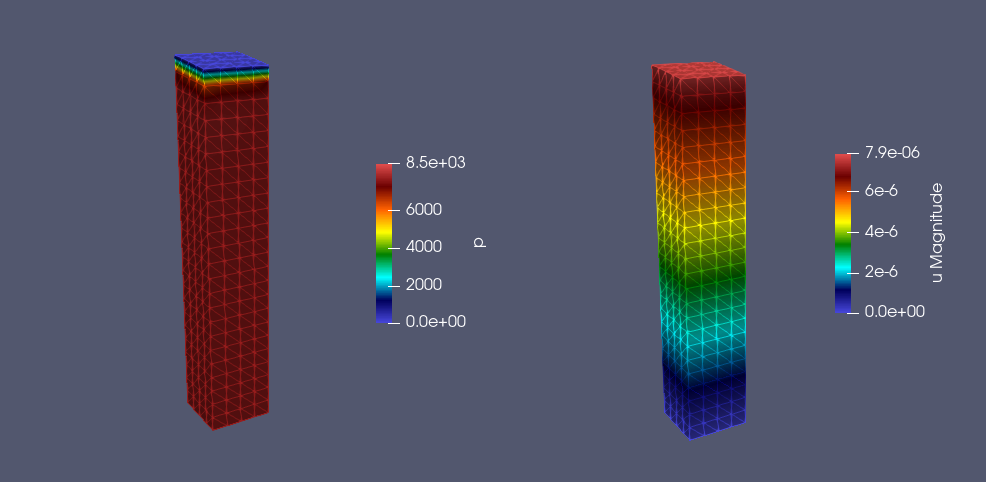
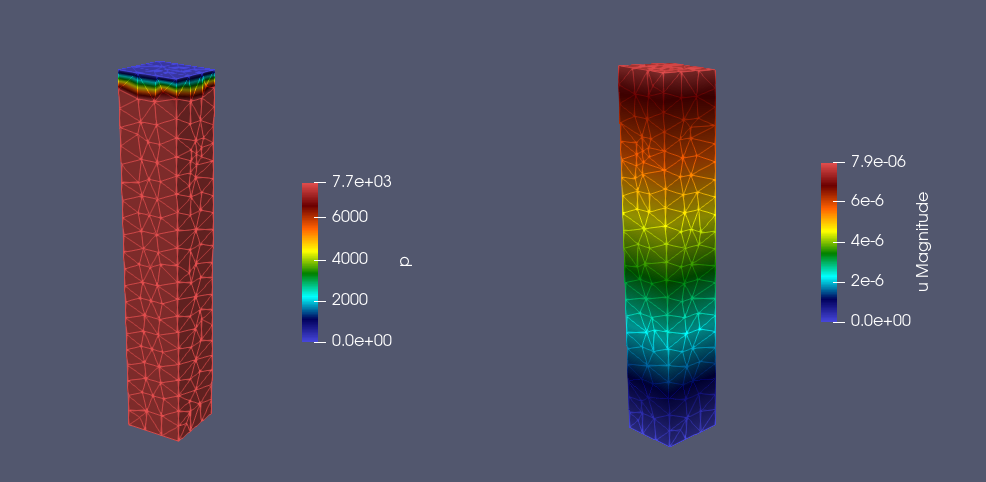
Removed unused imported libs. Changed Terzaghi to unstructured grid. Renamed a few functions.

diff --git a/libs/grids.py b/libs/grids.py
@@ -1,9 +1,9 @@
-from dolfin import near, Point, SubDomain, Mesh, MeshFunction, Measure, RectangleMesh, BoxMesh
-from mshr import Sphere, Box, generate_mesh
+from dolfin import SubDomain, near, Point, MeshFunction, Measure
+from mshr import generate_mesh, Box, Sphere
 
 
 class BoxGrid(object):
-	def __init__(self, x0, x1, y0, y1, z0, z1, nx, ny, nz):
+	def __init__(self, x0, x1, y0, y1, z0, z1, n):
 		class Left(SubDomain):
 			def inside(self, x, on_boundary):
 				return near(x[0], x0)
@@ -22,7 +22,8 @@ class BoxGrid(object):
 		class Top(SubDomain):
 			def inside(self, x, on_boundary):
 				return near(x[2], z1)
-		self.mesh = BoxMesh(Point(x0, y0, z0), Point(x1, y1, z1), nx, ny, nz)
+		self.geometry = Box(Point(x0, y0, z0), Point(x1, y1, z1))
+		self.mesh = generate_mesh(self.geometry, n)
 		self.domains = MeshFunction("size_t", self.mesh, self.mesh.topology().dim())
 		self.domains.set_all(0)
 		self.dx = Measure('dx', domain=self.mesh, subdomain_data=self.domains)
@@ -43,19 +44,9 @@ class BoxGrid(object):
 		self.ds = Measure('ds', domain=self.mesh, subdomain_data=self.boundaries)
 		self.dS = Measure('dS', domain=self.mesh, subdomain_data=self.boundaries)
 
-	def addStripfootBoundary(self, z1, stripSize):
-		class Strip(SubDomain):
-			def inside(self, x, on_boundary):
-				return near(x[2], z1) and x[0] < stripSize + 1e-12 and x[1] < stripSize + 1e-12
-		self.strip = Strip()
-		self.strip.mark(self.boundaries, 7)
-		self.dx = Measure('dx', domain=self.mesh, subdomain_data=self.domains)
-		self.ds = Measure('ds', domain=self.mesh, subdomain_data=self.boundaries)
-		self.dS = Measure('dS', domain=self.mesh, subdomain_data=self.boundaries)
-
 class QuarterSphereGrid(object):
 	def __init__(self, x0, y0, z0, R, n):
-		class Boundary(SubDomain):
+		class SphereSurface(SubDomain):
 			def inside(self, x, on_boundary):
 				return on_boundary
 		class X_Symmetric(SubDomain):
@@ -67,14 +58,15 @@ class QuarterSphereGrid(object):
 		class Z_Symmetric(SubDomain):
 			def inside(self, x, on_boundary):
 				return near(x[2], z0)
-		self.mesh = generate_mesh(Sphere(Point(x0, y0, z0), R) - Box(Point(x0 + R, y0, z0 - R), Point(x0 - R, y0 - R, z0 + R)) - Box(Point(x0 - R, y0 + R, z0), Point(x0 + R, y0, z0 - R)) - Box(Point(x0, y0, z0), Point(x0 - R, y0 + R, z0 + R)), n)
+		self.geometry = Sphere(Point(x0, y0, z0), R) - Box(Point(x0 + R, y0, z0 - R), Point(x0 - R, y0 - R, z0 + R)) - Box(Point(x0 - R, y0 + R, z0), Point(x0 + R, y0, z0 - R)) - Box(Point(x0, y0, z0), Point(x0 - R, y0 + R, z0 + R))
+		self.mesh = generate_mesh(self.geometry, n)
 		self.domains = MeshFunction("size_t", self.mesh, self.mesh.topology().dim())
 		self.domains.set_all(0)
 		self.dx = Measure('dx', domain=self.mesh, subdomain_data=self.domains)
 		self.boundaries = MeshFunction("size_t", self.mesh, self.mesh.topology().dim()-1)
 		self.boundaries.set_all(0)
-		self.boundary = Boundary()
-		self.boundary.mark(self.boundaries, 1)
+		self.sphereSurface = SphereSurface()
+		self.sphereSurface.mark(self.boundaries, 1)
 		self.x_symmetric = X_Symmetric()
 		self.x_symmetric.mark(self.boundaries, 2)
 		self.y_symmetric = Y_Symmetric()

diff --git a/apps/Terzaghi3D/main.py b/apps/Terzaghi3D/main.py
@@ -1,8 +1,7 @@
 import sys
 sys.path.insert(0, '../..')
 
-from dolfin import split, plot, interpolate, Constant, assign
-import matplotlib.pyplot as plt
+from dolfin import interpolate, Expression, Constant, assign
 
 from libs.grids import *
 from libs.spaces import *
@@ -23,9 +22,7 @@ y1 = 0.5
 z0 = 0.0
 z1 = 6.0
 # Refinement
-Nx = 4
-Ny = 4
-Nz = 24
+N = 20
 # Elements degree
 pu = 1
 pp = 1
@@ -34,7 +31,7 @@ dt = 1e5
 T = 5e7
 # Load
 loadMagnitude = -10.0e3 # in Pa
-load = Constant((0.0, 0.0, loadMagnitude))
+load = Expression(("0.0", "0.0", "load"), load=loadMagnitude, degree=pu)
 # Porous medium
 medium = "GulfMexicoShale"
 # Input origin
@@ -48,9 +45,9 @@ settingsFile = "settings"
 """ START """
 
 # Generate grid
-grid = BoxGrid(x0, x1, y0, y1, z0, z1, Nx, Ny, Nz)
+grid = BoxGrid(x0, x1, y0, y1, z0, z1, N)
 # Generate mixed spaces and trial and test functions
-space = DisplacementPressureSpace(grid, pu, pp)
+space = CGvCGqSpace(grid, pu, pp)
 (u, p) = space.trialFunction()
 (w, q) = space.testFunction()
 # Assign IC
@@ -158,6 +155,6 @@ while t <= T:
 	p0.assign(p_h)
 writer.close()
 # Save simulation data
-data = {"Parameters": {"Load": {"Value": loadMagnitude, "Unit": "Pa"}, "Dimensions": {"Length": {"Axis": "x", "Value": x1 - x0, "Unit": "m"}, "Width": {"Axis": "y", "Value": y1 - y0, "Unit": "m"}, "Height": {"Axis": "z", "Value": z1 - z0, "Unit": "m"}}}, "Simulation": {"Timestep Size": {"Value": dt, "Unit": "s"}, "Total Simulation Time": {"Value": T, "Unit": "s"}, "Refinement": {"Characteristic Length": {"Value": ((x1 - x0)/Nx*(y1 - y0)/Ny*(z1 - z0)/Nz)**(1/3), "Unit": "m"}, "Displacement Elements Degree": pu, "Pressure Elements Degree": pp}}}
+data = {"Parameters": {"Load": {"Value": loadMagnitude, "Unit": "Pa"}, "Dimensions": {"Length": {"Axis": "x", "Value": x1 - x0, "Unit": "m"}, "Width": {"Axis": "y", "Value": y1 - y0, "Unit": "m"}, "Height": {"Axis": "z", "Value": z1 - z0, "Unit": "m"}}}, "Simulation": {"Timestep Size": {"Value": dt, "Unit": "s"}, "Total Simulation Time": {"Value": T, "Unit": "s"}, "Refinement": {"Resolution": N, "Displacement Elements Degree": pu, "Pressure Elements Degree": pp}}}
 saveJsonData(data, resultsFolder, settingsFile)
 copyProperties(propertiesFolder, propertiesFile, resultsFolder, [medium])

diff --git a/apps/Cryer3D/main.py b/apps/Cryer3D/main.py
@@ -1,8 +1,7 @@
 import sys
 sys.path.insert(0, '../..')
 
-from dolfin import split, plot, interpolate, Expression, Constant, assign
-import matplotlib.pyplot as plt
+from dolfin import interpolate, Expression, Constant, assign
 
 from libs.grids import *
 from libs.spaces import *
@@ -46,7 +45,7 @@ settingsFile = "settings"
 # Generate grid
 grid = QuarterSphereGrid(x0, y0, z0, R, N)
 # Generate mixed spaces and trial and test functions
-space = DisplacementPressureSpace(grid, pu, pp)
+space = CGvCGqSpace(grid, pu, pp)
 (u, p) = space.trialFunction()
 (w, q) = space.testFunction()
 # Assign IC
@@ -150,6 +149,6 @@ while t <= T:
 	p0.assign(p_h)
 writer.close()
 # Save simulation data
-data = {"Parameters": {"Load": {"Value": loadMagnitude, "Unit": "Pa"}, "Radius": {"Value": R, "Unit": "m"}}, "Simulation": {"Timestep Size": {"Value": dt, "Unit": "s"}, "Total Simulation Time": {"Value": T, "Unit": "s"}, "Refinement": {"Characteristic Length": {"Value": R/N, "Unit": "m"}, "Displacement Elements Degree": pu, "Pressure Elements Degree": pp}}}
+data = {"Parameters": {"Load": {"Value": loadMagnitude, "Unit": "Pa"}, "Radius": {"Value": R, "Unit": "m"}}, "Simulation": {"Timestep Size": {"Value": dt, "Unit": "s"}, "Total Simulation Time": {"Value": T, "Unit": "s"}, "Refinement": {"Resolution": N, "Displacement Elements Degree": pu, "Pressure Elements Degree": pp}}}
 saveJsonData(data, resultsFolder, settingsFile)
 copyProperties(propertiesFolder, propertiesFile, resultsFolder, [medium])

diff --git a/libs/spaces.py b/libs/spaces.py
@@ -2,33 +2,13 @@ from dolfin import VectorElement, FiniteElement, FunctionSpace
 from multiphenics import BlockFunctionSpace, BlockTrialFunction, BlockTestFunction, BlockFunction, block_split
 
 
-class DisplacementPressureSpace(object):
+class CGvCGqSpace(object):
 	def __init__(self, grid, u_degree, p_degree):
 		v_elem = VectorElement("CG", grid.mesh.ufl_cell(), u_degree)
 		q_elem = FiniteElement("CG", grid.mesh.ufl_cell(), p_degree)
 		self.V = FunctionSpace(grid.mesh, v_elem)
 		self.Q = FunctionSpace(grid.mesh, q_elem)
 		self.mixedSpace = BlockFunctionSpace([self.V, self.Q])
-
-	def trialFunction(self):
-		return block_split(BlockTrialFunction(self.mixedSpace))
-
-	def testFunction(self):
-		return block_split(BlockTestFunction(self.mixedSpace))
-
-	def function(self):
-		return BlockFunction(self.mixedSpace)
-
-
-class DisplacementPressureVolStressSpace(object):
-	def __init__(self, grid, u_degree, p_degree, sig_degree):
-		v_elem = VectorElement("CG", grid.mesh.ufl_cell(), u_degree)
-		q_elem = FiniteElement("CG", grid.mesh.ufl_cell(), p_degree)
-		tau_elem = FiniteElement("CG", grid.mesh.ufl_cell(), sig_degree)
-		self.V = FunctionSpace(grid.mesh, v_elem)
-		self.Q = FunctionSpace(grid.mesh, q_elem)
-		self.T = FunctionSpace(grid.mesh, tau_elem)
-		self.mixedSpace = BlockFunctionSpace([self.V, self.Q, self.T])
 
 	def trialFunction(self):
 		return block_split(BlockTrialFunction(self.mixedSpace))

diff --git a/libs/linearsystem.py b/libs/linearsystem.py
@@ -35,24 +35,3 @@ class LinearSystem(object):
 		if bcs:
 			self.apply(entity, bcs)
 		return entity
-
-	def shearStressBlock(self, properties, u, w):
-		return 2*properties.G*inner(sym(grad(u)), grad(w))*self.dx
-
-	def solidPressureBlock(self, sig, w):
-		return sig*div(w)*self.dx
-
-	def stressStorageBlock(self, properties, dt, p, q):
-		return (1./(properties.Q*dt) + properties.alpha**2/(properties.lamda*dt))*p*q*self.dx
-
-	def stressVelocityBlock(self, properties, dt, sig, q):
-		return (properties.alpha/(properties.lamda*dt))*sig*q*self.dx
-
-	def volStrainBlock(self, properties, u, tau):
-		return -properties.lamda*div(u)*tau*self.dx
-
-	def volPressureBlock(self, properties, p, tau):
-		return properties.alpha*p*tau*self.dx
-
-	def volStressBlock(self, sig, tau):
-		return sig*tau*self.dx

diff --git a/apps/Terzaghi3D/view.py b/apps/Terzaghi3D/view.py
@@ -34,7 +34,7 @@ reader2 = HDF5Reader(directory2, resultsFile)
 # Exact solution
 terza = Terzaghi(properties, settings, numOfTerms=100)
 # Arrange data
-nodes = reader1.getNodesAlongAxis(2)
+nodes = reader1.getNodesAlongAxis(2, axis0=-0.5)
 numOfSteps = reader1.getNumOfSteps()
 plottedSteps = [0,
 				int(numOfSteps/128),

diff --git a/libs/bcs.py b/libs/bcs.py
@@ -1,4 +1,4 @@
-from dolfin import Constant, Vector
+from dolfin import Constant
 from multiphenics import DirichletBC, BlockDirichletBC
 
 
